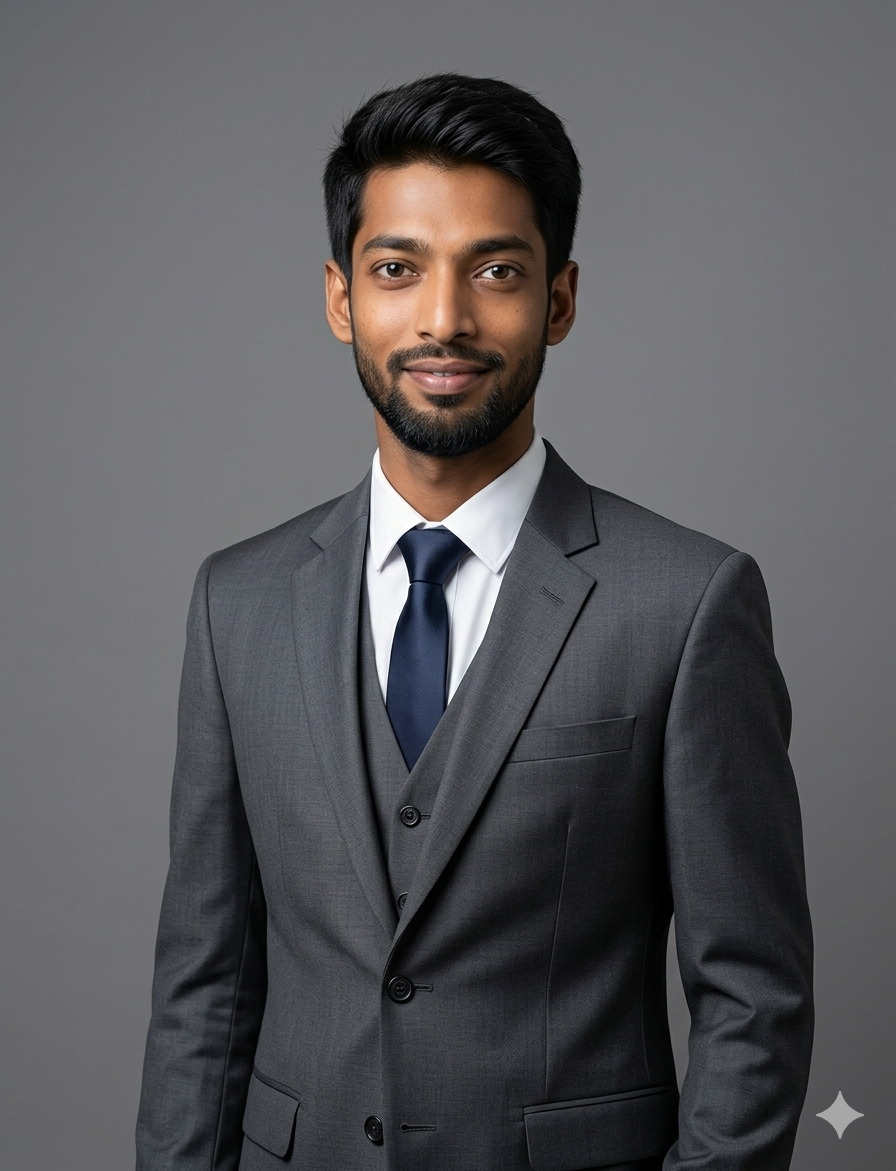
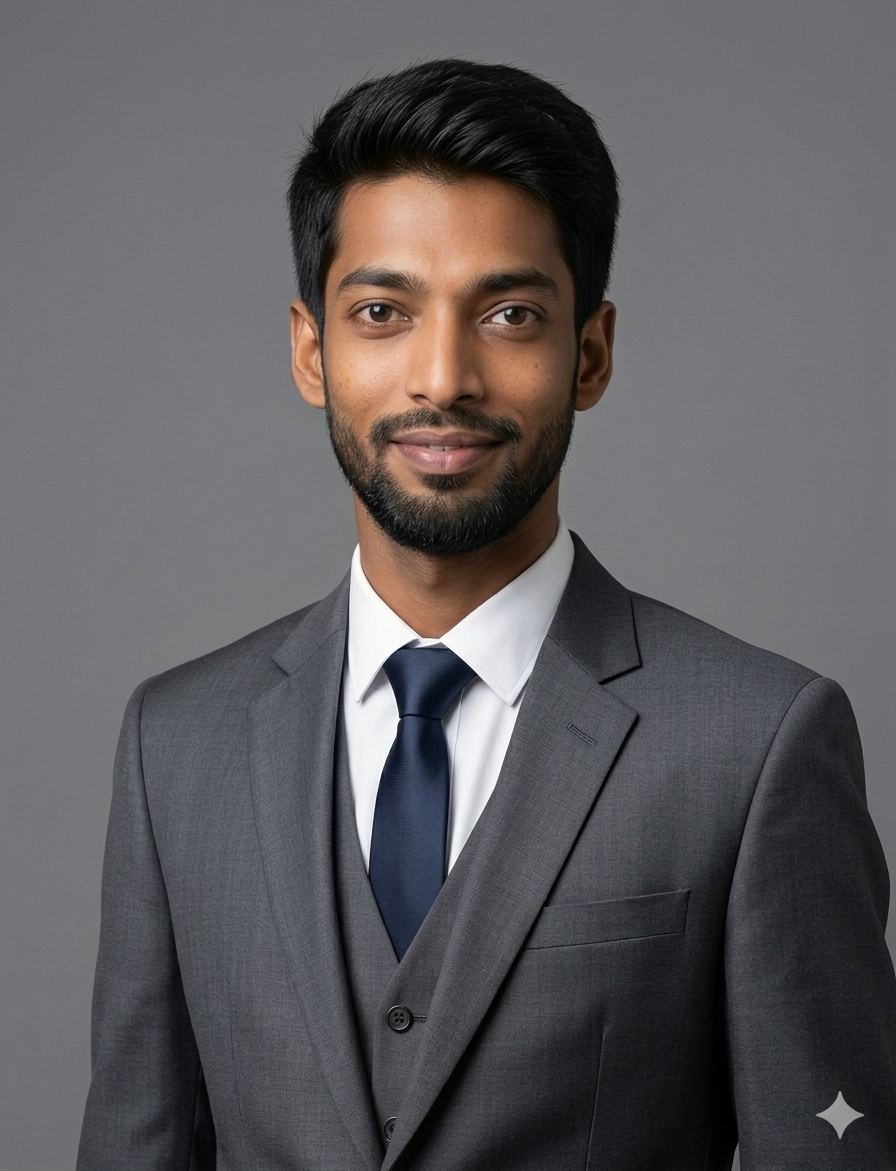
update

diff --git a/src/layout/Footer.jsx b/src/layout/Footer.jsx
@@ -34,7 +34,7 @@ const Footer = () => {
     },
     {
       icon: <FaYoutube />,
-      link: "https://www.youtube.com/@lijonlijon46",
+      link: "https://www.youtube.com/@dhakait1",
       
       label: "Youtube",
     },
